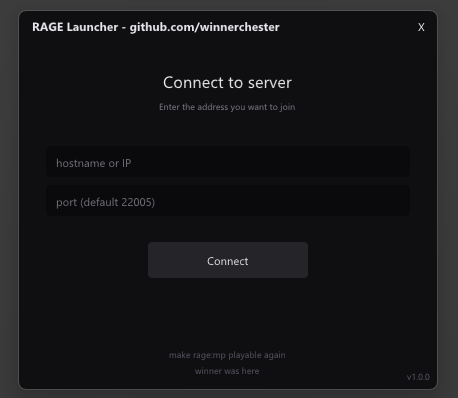
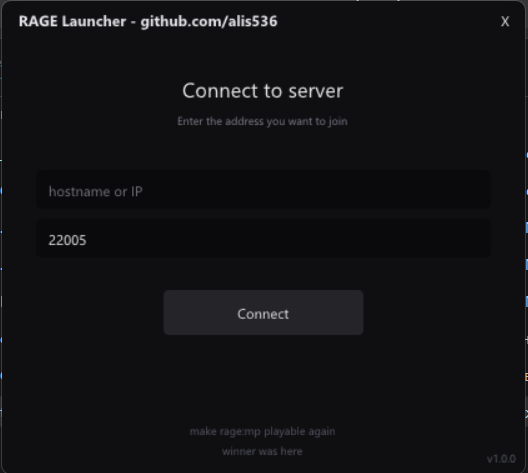
1.1

diff --git a/src/main.cpp b/src/main.cpp
@@ -202,9 +202,9 @@ static void DrawTitleBar()
     dl->AddRectFilled(p0, p1, IM_COL32(15, 15, 17, 255));
 
     if (g_fontTitle) ImGui::PushFont(g_fontTitle);
-    ImVec2 textSize = ImGui::CalcTextSize("RAGE Launcher - github.com/winnerchester");
+    ImVec2 textSize = ImGui::CalcTextSize("RAGE Launcher - github.com/alis536");
     dl->AddText(ImVec2(14, (TITLE_BAR_H - textSize.y) * 0.5f),
-                IM_COL32(230, 230, 235, 255), "RAGE Launcher - github.com/winnerchester");
+                IM_COL32(230, 230, 235, 255), "RAGE Launcher - github.com/alis536");
     if (g_fontTitle) ImGui::PopFont();
 
     const float btnSize = (float)TITLE_BAR_H;
@@ -428,7 +428,7 @@ int WINAPI wWinMain(HINSTANCE hInst, HINSTANCE, LPWSTR, int)
     int y  = (sh - WINDOW_H) / 2;
 
     g_hwnd = CreateWindowExW(
-        0, wc.lpszClassName, L"RAGE Launcher - github.com/winnerchester",
+        0, wc.lpszClassName, L"RAGE Launcher - github.com/alis536",
         WS_POPUP,                            
         x, y, WINDOW_W, WINDOW_H,
         nullptr, nullptr, hInst, nullptr);
